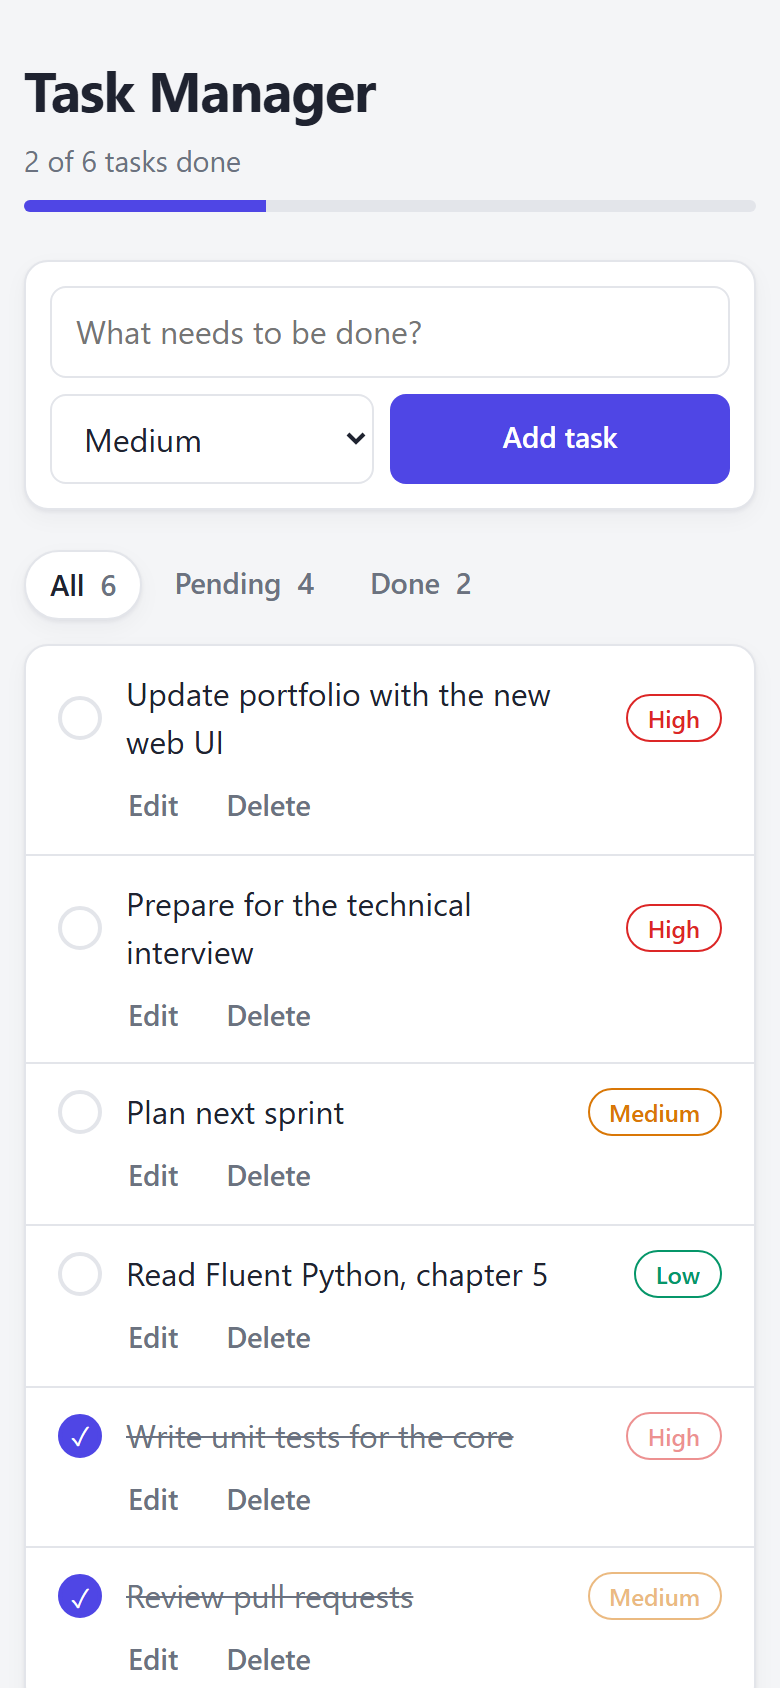
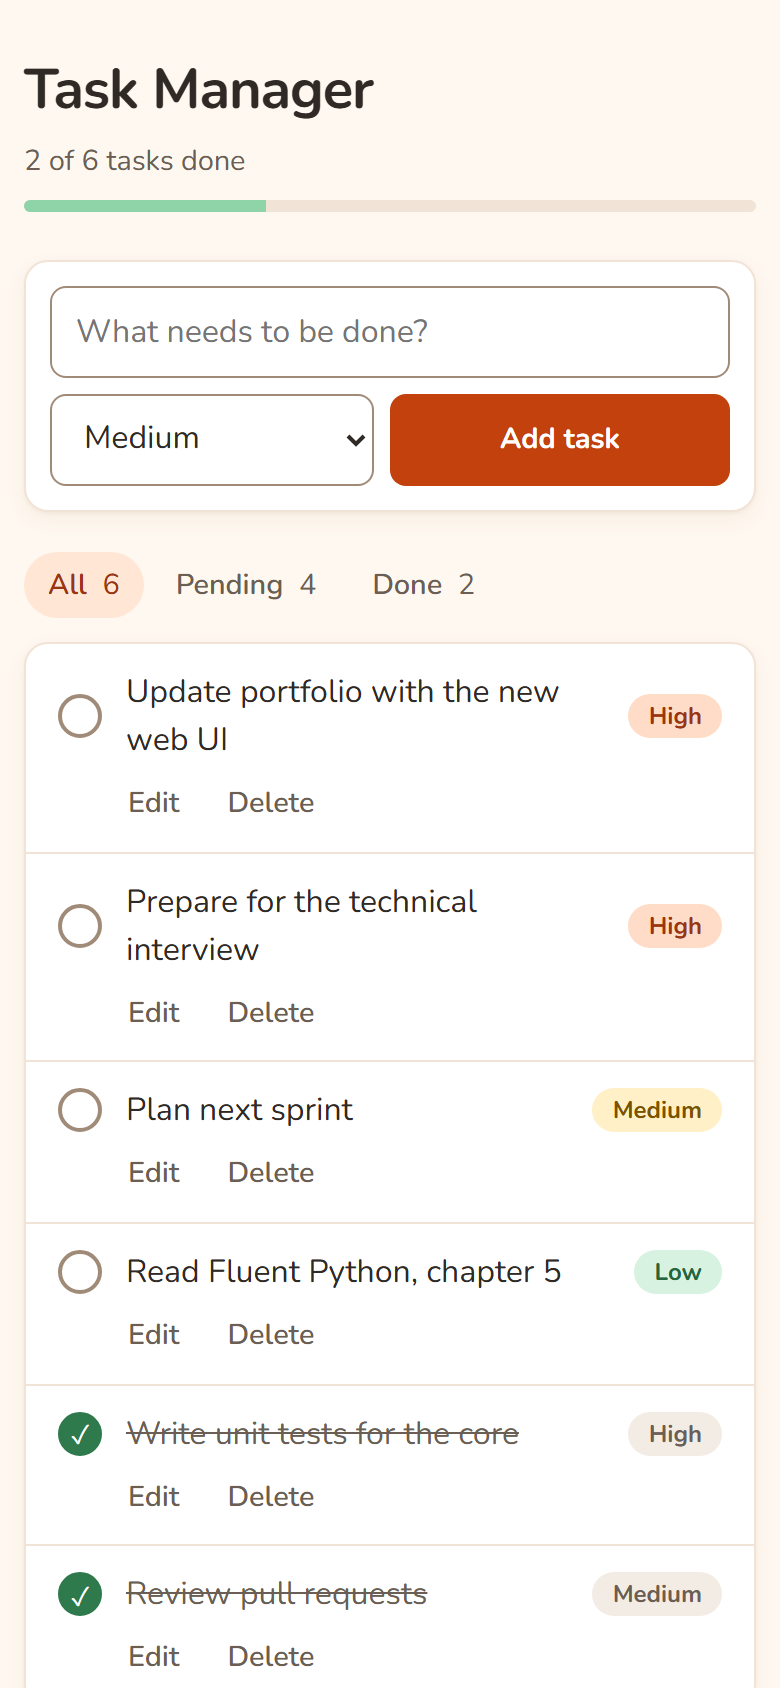
docs: refresh screenshots and README for the new visual identity

diff --git a/README.md b/README.md
@@ -25,7 +25,7 @@ A [mobile screenshot](docs/screenshot-mobile.png) is also available.
 - Priority per task: low, medium or high (shown as colored badges)
 - Filter by status: all, pending or done, with counters
 - Progress bar, empty states and clear validation messages (e.g. blank titles)
-- Responsive layout with automatic dark mode
+- Responsive light theme with a pastel orange and green palette (WCAG AA text contrast)
 - Data persists between runs in SQLite
 - Databases from the first version of the project are migrated automatically
 - A corrupted database file is moved aside instead of crashing the app
@@ -35,6 +35,7 @@ A [mobile screenshot](docs/screenshot-mobile.png) is also available.
 - Python 3.10+
 - [Flask](https://flask.palletsprojects.com/) for the web interface (HTML, CSS and a few lines of JavaScript)
 - SQLite (`sqlite3` from the standard library)
+- [Nunito](https://github.com/googlefonts/nunito) font, self-hosted (SIL Open Font License)
 - [pytest](https://pytest.org/) for automated tests
 
 ## Project structure
